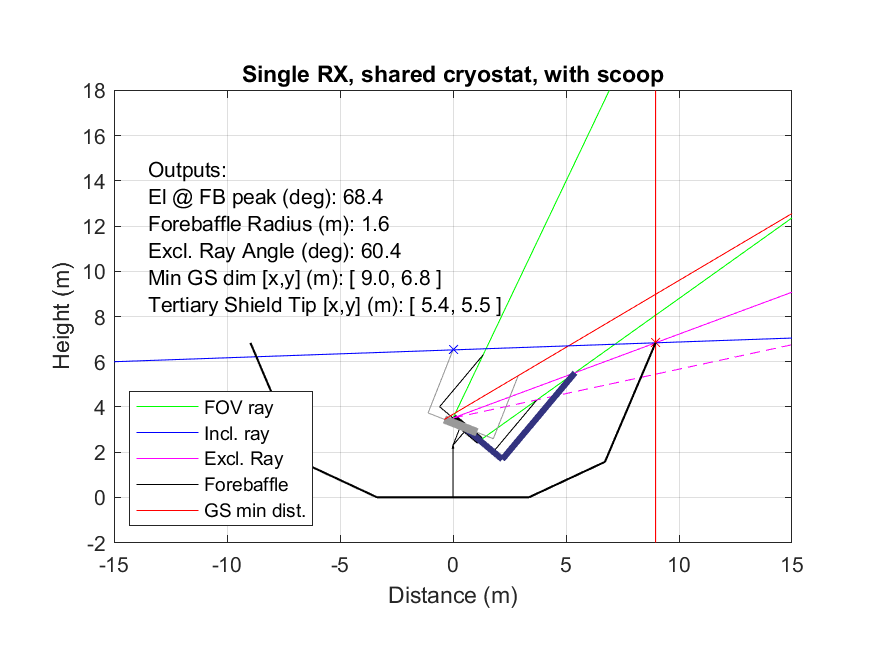
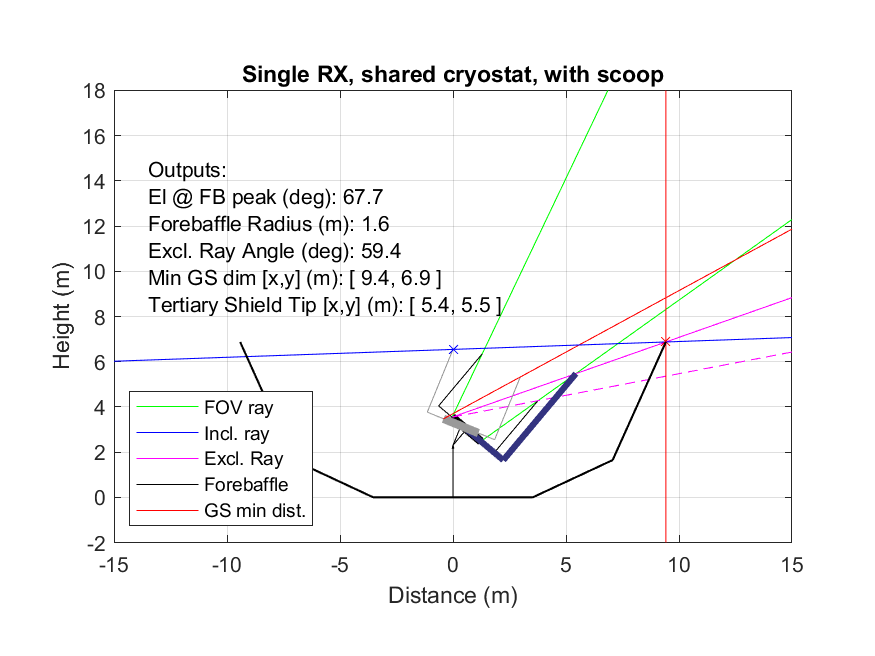
fixed El peak bug. Made new figs.

diff --git a/s4_gs_study.m b/s4_gs_study.m
@@ -123,9 +123,10 @@ if singlestat
         case 3
             %win_d = (1+2/sqrt(3))*win_d; 
 	    % Take spacing into account
+        
 	    win_r = win_d / 2.0;
 	    R = win_r + (win_r + (spacing/2))*(2*sqrt(3)/3);
-	    win_d = 2*R;
+	    win_d = 2*R
         case 4
             win_d = (1+sqrt(2))*win_d;
         case 5
@@ -149,6 +150,7 @@ end
 
 gs_params = [];
 
+
 % Do this twice. Once at min el for exclusion ray.
 % And again at peak forebaffle height to find inclusion ray.
 for i = 1:2
@@ -170,8 +172,10 @@ for i = 1:2
     dk_ax = org + dk_off;
     
     % start by finding location at which the fov ray is fb_height above window.
+    
     fb_r = (win_d/2 + fb_h*tand(fov/2));
     fb_l = pnt2*fb_r;
+    
     
     % Translate window from boresight if multiple rx's.
     if n_rx==2
@@ -223,7 +227,7 @@ for i = 1:2
     % Rotate in elevation.
     if i == 2
         fb_point = -fb_l+pos+fb_h*pnt;
-        el_peak = acosd(dot(fb_point,[0,1])/(norm(fb_point)));
+        el_peak = acosd(dot(fb_point,[0,1])/(norm(fb_point)))
         el_ang = el_peak;
     else
         el_ang = 90-min_el;

diff --git a/report_20200312.m b/report_20200312.m
@@ -33,13 +33,13 @@ sp.min_el = 50.0;
 sp.n_rx = 3;
 %sp.gs_dim = [0,0];
 
-for fbs = [1.75, 3.5]
-    sp.fb_h = fbs
+for fbs = [1.75, 3.0, 3.5]
+    sp.fb_h = fbs;
     parm = s4_gs_study(sp,'PLOT',true,'OUTTEXT',true,'axis_window',15,'spacing',0.1,'singlestat',true,'ts_dim',false);
     printname = [figdir sprintf('SAT_3RX_compact_fb_%i_noscoop',ceil(fbs))];
     print(1,printname,'-dpng')
     for scoops = 1:3
-        parm = s4_gs_study(sp,'PLOT',true,'OUTTEXT',true,'axis_window',15,'spaciong',0.1,'singlestat',true,'ts_dim',false,'threeshield',scoops);
+        parm = s4_gs_study(sp,'PLOT',true,'OUTTEXT',true,'axis_window',15,'spacing',0.1,'singlestat',true,'ts_dim',false,'threeshield',scoops);
         printname = [figdir sprintf('SAT_3RX_compact_fb_%i_scoop_%i',ceil(fbs),scoops)];
         print(1,printname,'-dpng')
     end
